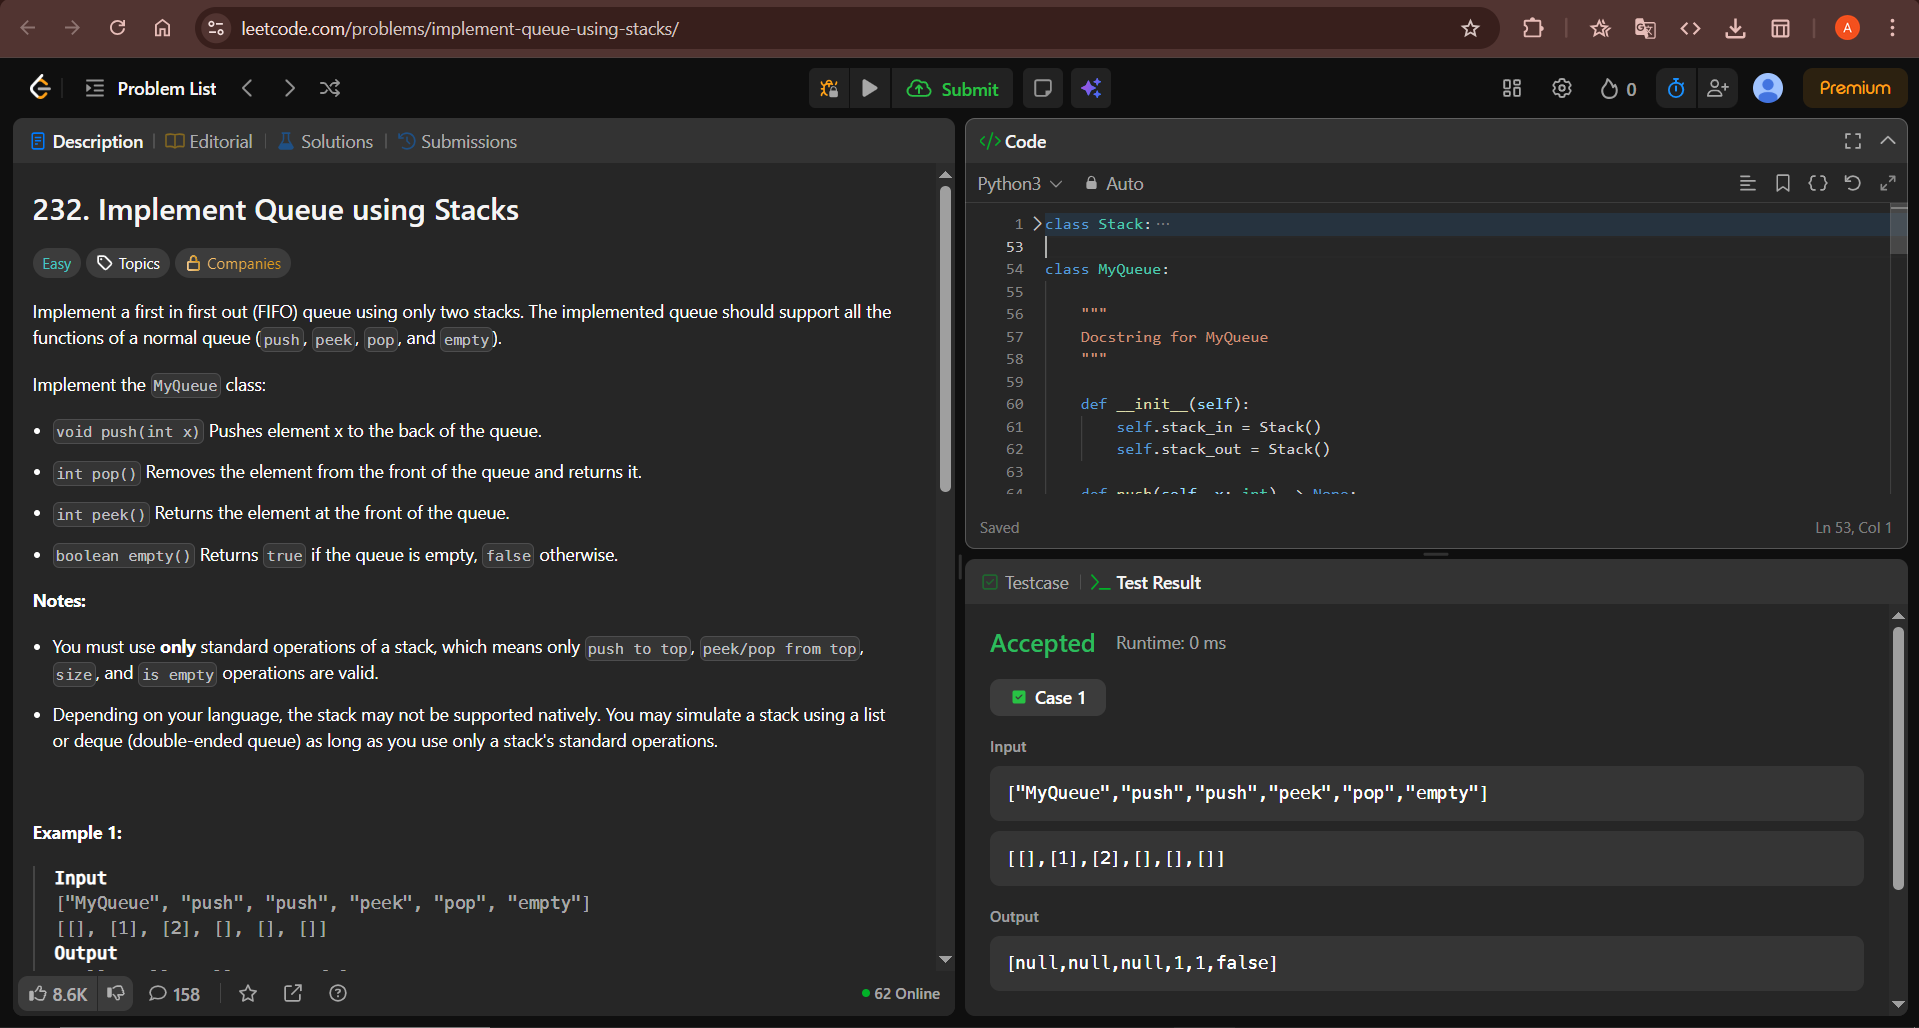
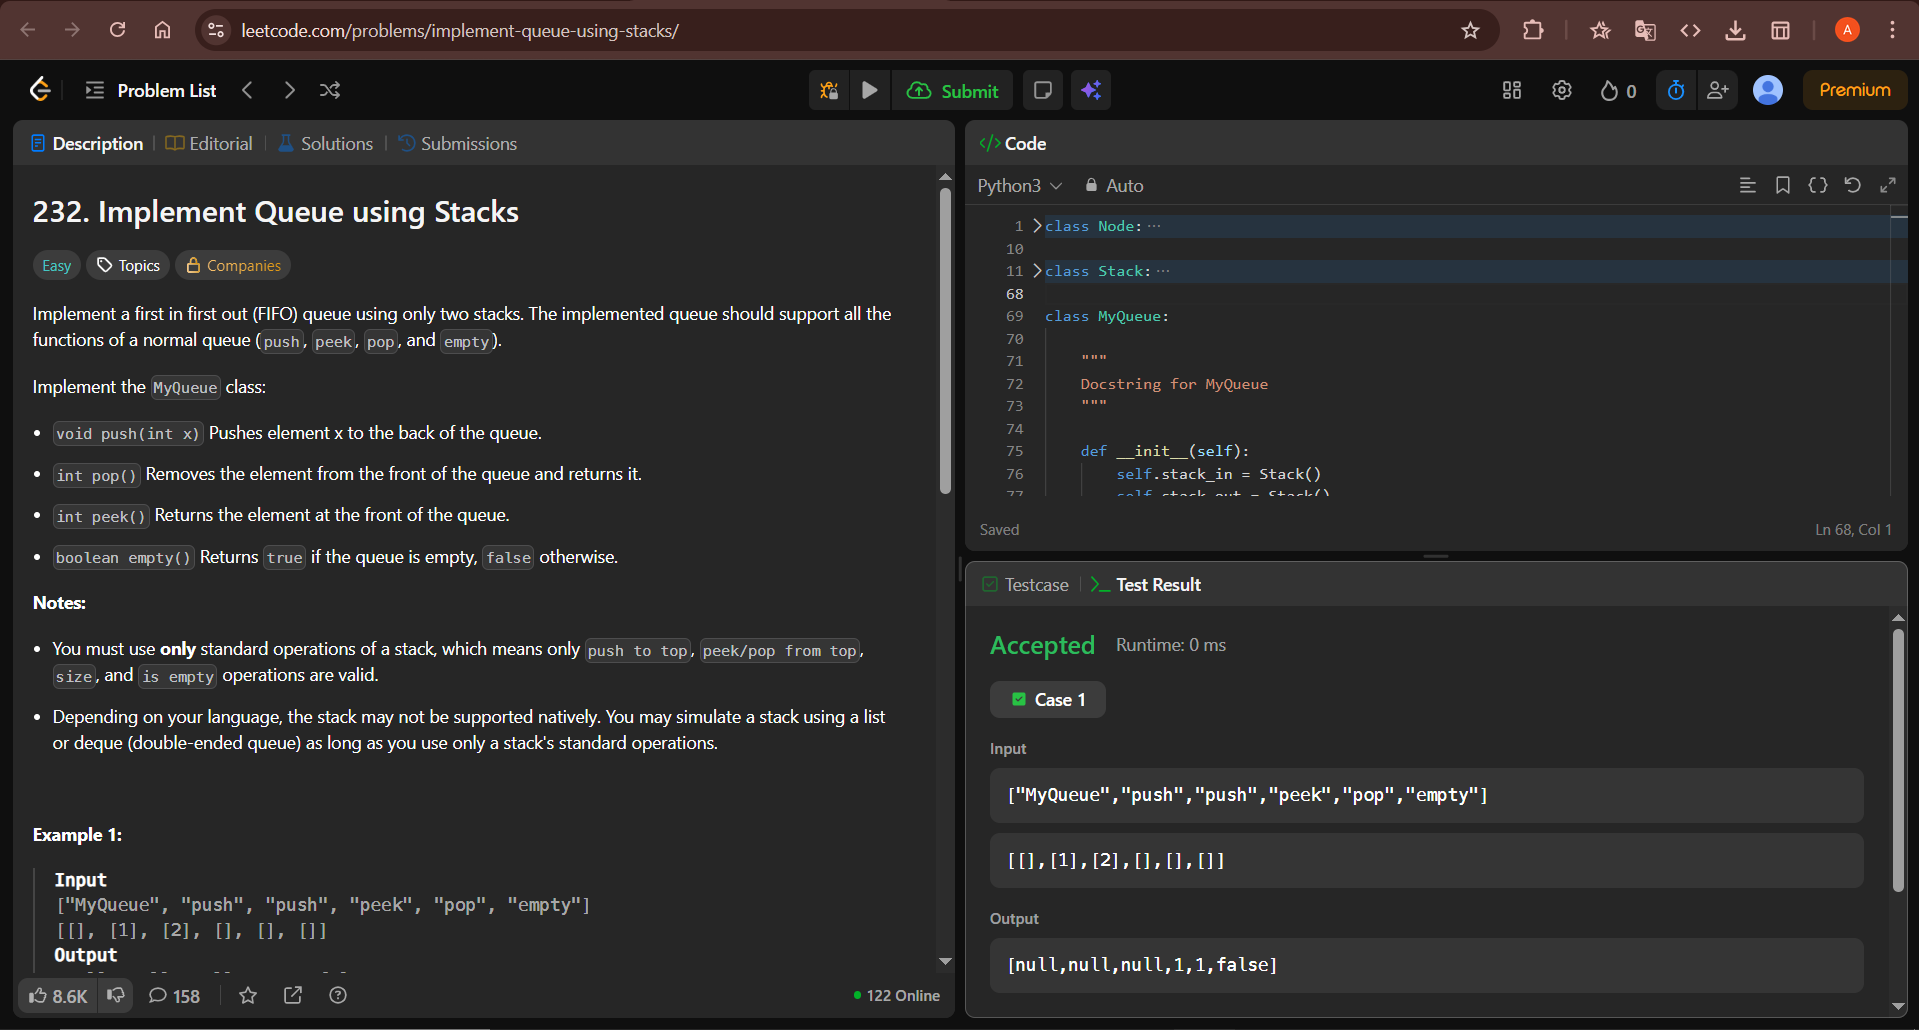
Linked List Optimizations & Updated Tests Results

diff --git a/queue_using_stacks/queue_with_stacks.py b/queue_using_stacks/queue_with_stacks.py
@@ -31,7 +31,6 @@ class MyQueue:
         Helper method for transfering data from stack_in into stack_out.
         Used for rearrangement, which makes .pop() and .peek() methods correct and possible
         """
-
         if self.stack_out.is_empty():
             while not self.stack_in.is_empty():
                 self.stack_out.push(self.stack_in.pop())
@@ -42,10 +41,10 @@ class MyQueue:
         Remove and return item from the front of the queue
         """
 
-        if self.empty():
+        if self.stack_in.is_empty():
             raise IndexError("Queue is empty")
-
         self.transfer()
+
         return self.stack_out.pop()
 
     def peek(self) -> int:
@@ -54,7 +53,10 @@ class MyQueue:
         Return item from the front of the queue
         """
 
+        if self.stack_in.is_empty():
+            raise IndexError("Queue is empty")
         self.transfer()
+
         return self.stack_out.peek()
 
     def empty(self) -> bool:
